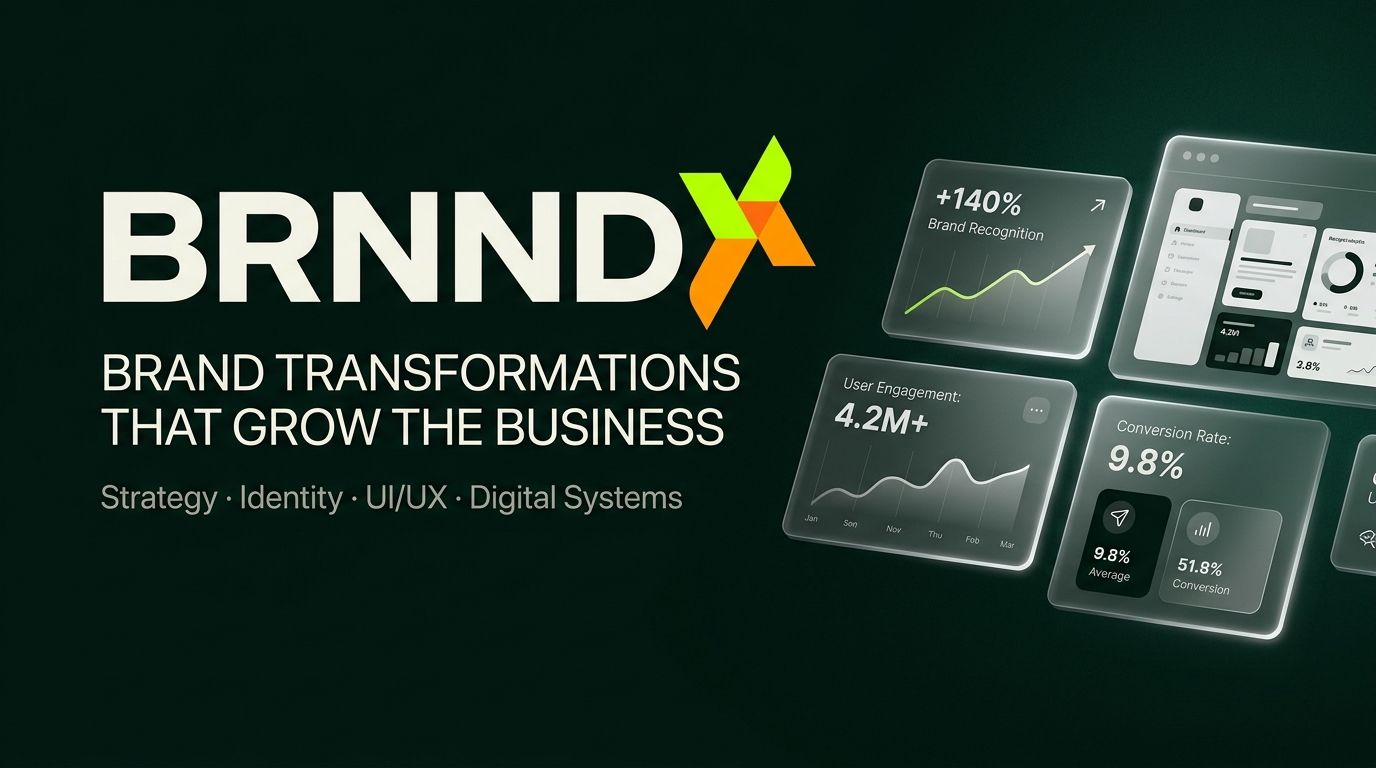
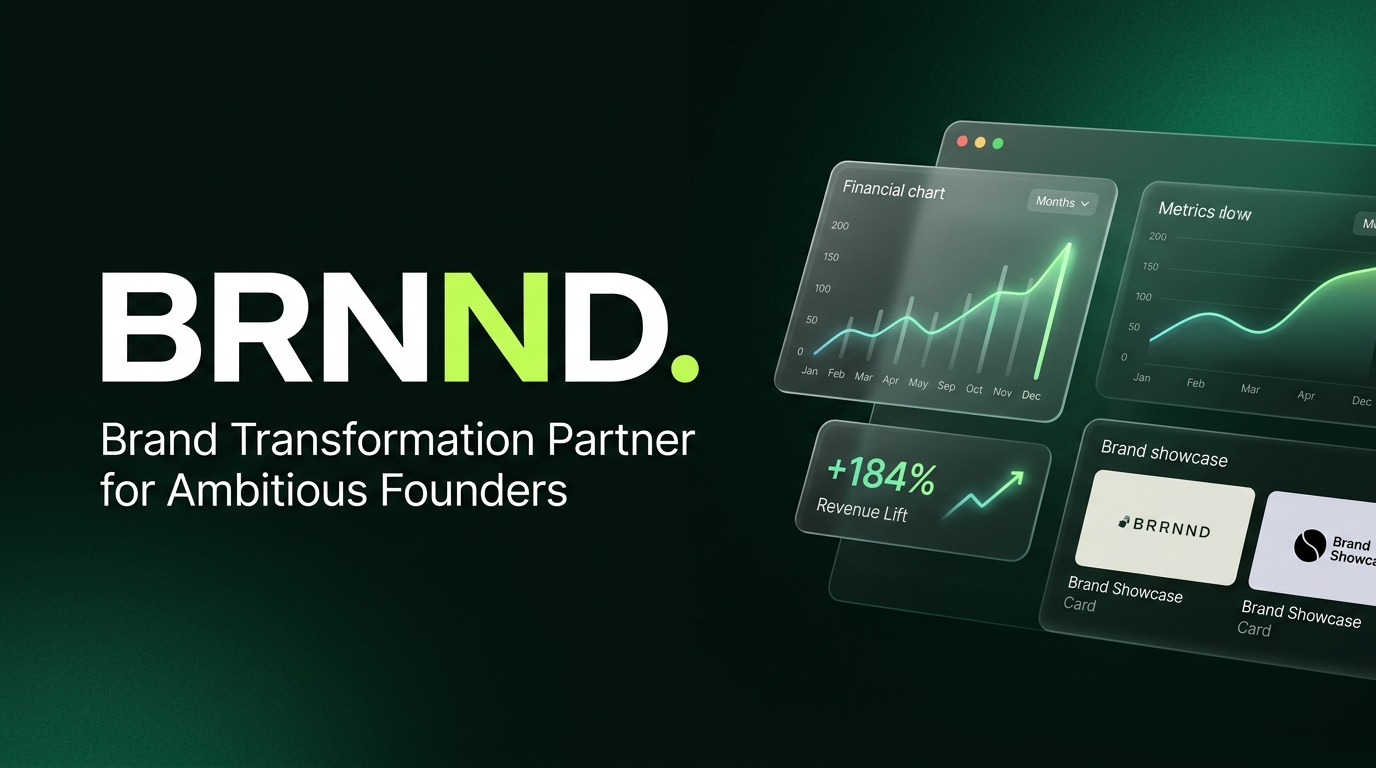
Generate and configure high-resolution Open Graph social preview image and metadata

diff --git a/src/routes/__root.tsx b/src/routes/__root.tsx
@@ -53,16 +53,23 @@ export const Route = createRootRouteWithContext<{ queryClient: QueryClient }>()(
     meta: [
       { charSet: "utf-8" },
       { name: "viewport", content: "width=device-width, initial-scale=1" },
-      { title: "BRNND — Brand transformation partner for ambitious founders" },
-      { name: "description", content: "BRNND builds complete brand systems — strategy, identity, websites and growth — for founders, startups and businesses ready to scale." },
-      { property: "og:title", content: "BRNND — Brand transformation partner for ambitious founders" },
-      { property: "og:description", content: "BRNND builds complete brand systems — strategy, identity, websites and growth — for founders, startups and businesses ready to scale." },
+      { title: "BRNND: Brand transformation partner for ambitious founders" },
+      { name: "description", content: "BRNND builds complete brand systems across strategy, identity, websites and growth for founders, startups and businesses ready to scale." },
+      { property: "og:title", content: "BRNND: Brand transformation partner for ambitious founders" },
+      { property: "og:description", content: "BRNND builds complete brand systems across strategy, identity, websites and growth for founders, startups and businesses ready to scale." },
       { property: "og:type", content: "website" },
+      { property: "og:url", content: "https://brnnd.com/" },
+      { property: "og:image", content: "https://brnnd.com/og-image.jpg" },
+      { property: "og:image:secure_url", content: "https://brnnd.com/og-image.jpg" },
+      { property: "og:image:type", content: "image/jpeg" },
+      { property: "og:image:width", content: "1200" },
+      { property: "og:image:height", content: "630" },
+      { property: "og:image:alt", content: "BRNND: Brand Transformations That Grow The Business" },
       { name: "twitter:card", content: "summary_large_image" },
-      { name: "twitter:title", content: "BRNND — Brand transformation partner for ambitious founders" },
-      { name: "twitter:description", content: "BRNND builds complete brand systems — strategy, identity, websites and growth — for founders, startups and businesses ready to scale." },
-      { property: "og:image", content: "https://storage.googleapis.com/gpt-engineer-file-uploads/attachments/og-images/aec5cab2-3302-4a6c-8c77-fe06a471399d" },
-      { name: "twitter:image", content: "https://storage.googleapis.com/gpt-engineer-file-uploads/attachments/og-images/aec5cab2-3302-4a6c-8c77-fe06a471399d" },
+      { name: "twitter:title", content: "BRNND: Brand transformation partner for ambitious founders" },
+      { name: "twitter:description", content: "BRNND builds complete brand systems across strategy, identity, websites and growth for founders, startups and businesses ready to scale." },
+      { name: "twitter:image", content: "https://brnnd.com/og-image.jpg" },
+      { name: "twitter:image:alt", content: "BRNND: Brand Transformations That Grow The Business" },
     ],
     links: [
       { rel: "preload", as: "image", href: logoWhite, fetchPriority: "high" },
